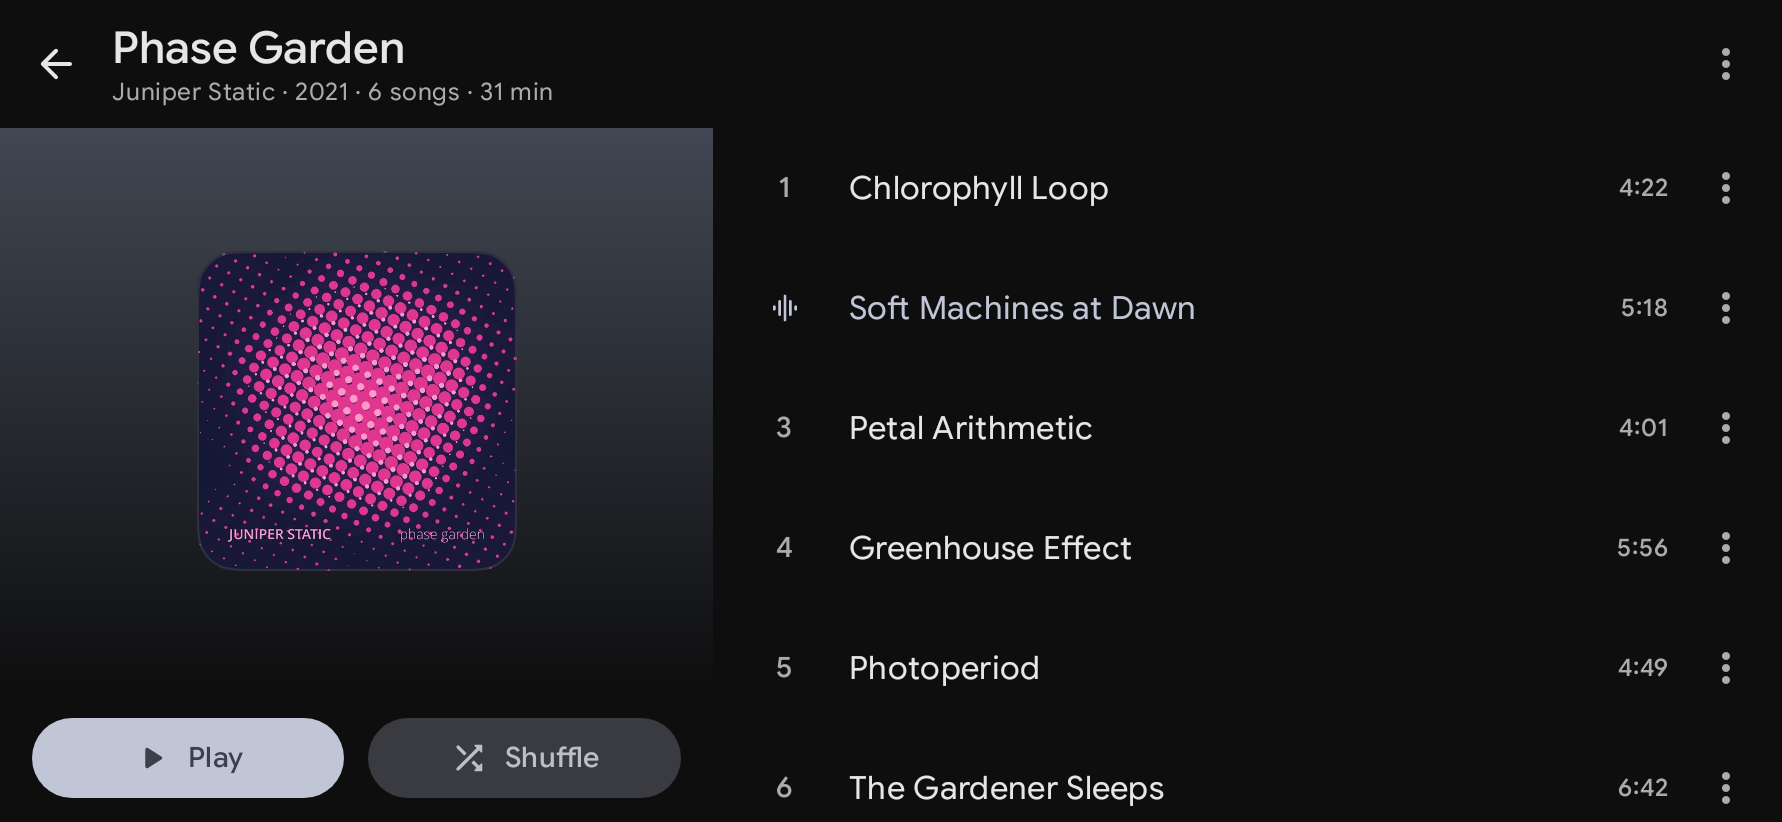
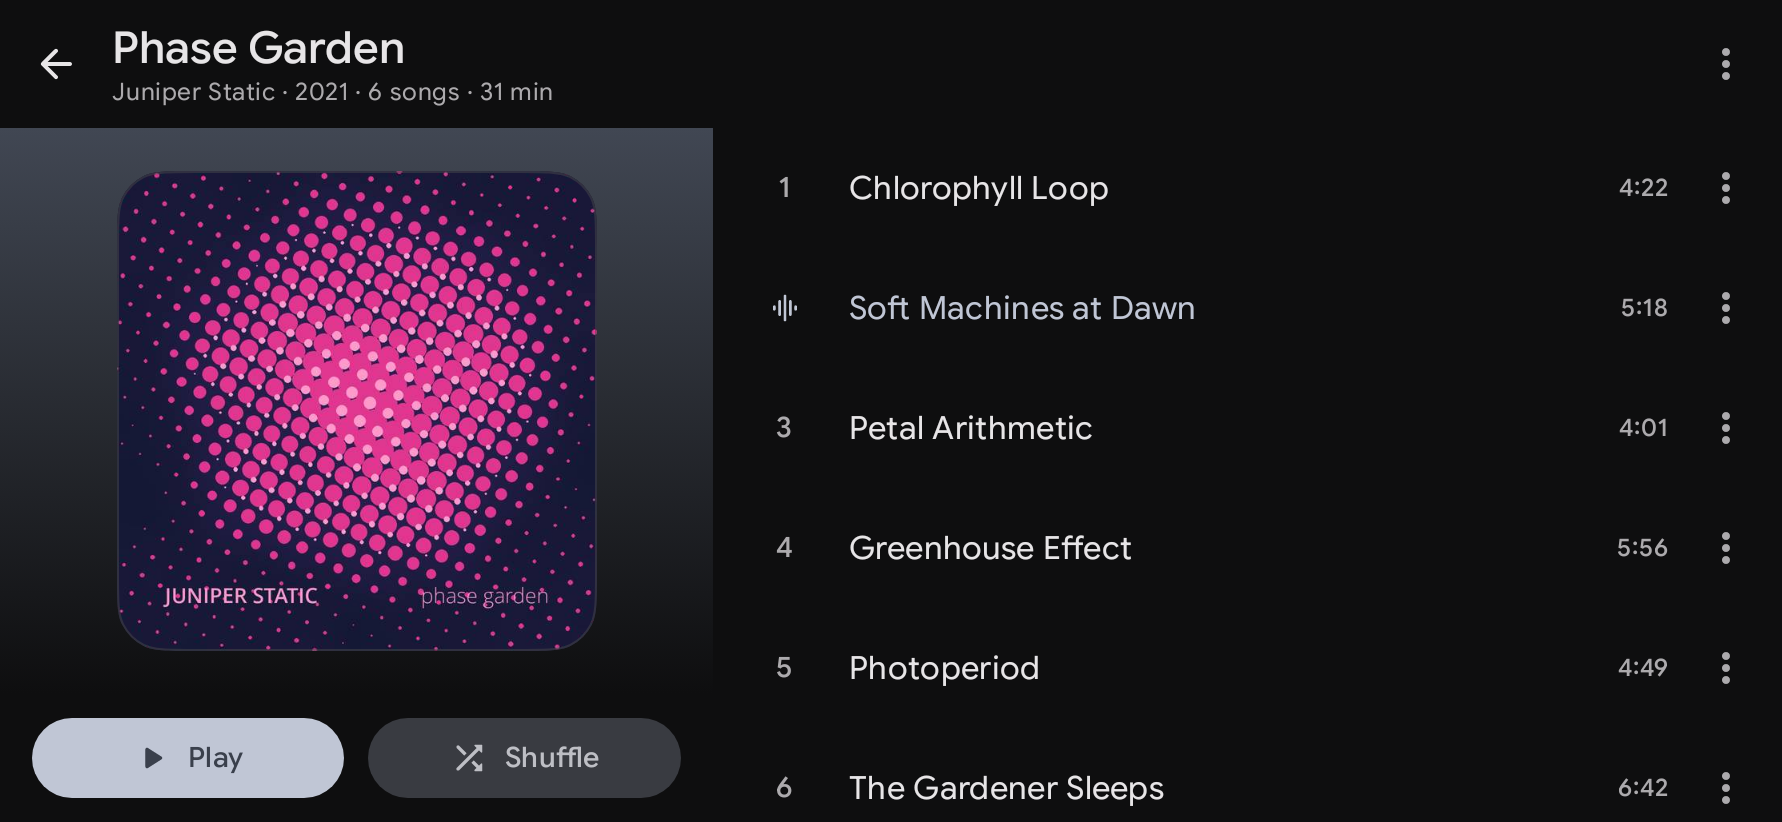
fix(app): album runtime uses the shared duration format (#1034)
Changelog: none

Changed region(s): [[0.0617, 0.2129, 0.3395, 0.7908]]

diff --git a/android/app/src/test/java/com/simplecityapps/shuttle/ui/screens/library/AlbumDetailScreenTest.kt b/android/app/src/test/java/com/simplecityapps/shuttle/ui/screens/library/AlbumDetailScreenTest.kt
@@ -32,7 +32,7 @@ class AlbumDetailScreenTest {
         val album = createAlbum(name = "Phase Garden", albumArtist = "Juniper Static", songCount = 12, duration = 2_700_000, year = 2021)
         robot.setAlbum(readyAlbumDetail(album = album))
 
-        robot.assertTextDisplayed("12 songs · 45 min", substring = true)
+        robot.assertTextDisplayed("12 songs · 45 min", substring = true)
     }
 
     @Test
@@ -40,7 +40,43 @@ class AlbumDetailScreenTest {
         val album = createAlbum(name = "Phase Garden", albumArtist = "Juniper Static", songCount = 1, duration = 7_500_000, year = 2021)
         robot.setAlbum(readyAlbumDetail(album = album))
 
-        robot.assertTextDisplayed("1 song · 2 h 5 min", substring = true)
+        robot.assertTextDisplayed("1 song · 2 hr, 5 min", substring = true)
+    }
+
+    @Test
+    fun `an album with no duration shows no runtime and no stray separator`() {
+        assertNoRuntime(duration = 0)
+    }
+
+    @Test
+    fun `an album under a minute shows no runtime and no stray separator`() {
+        assertNoRuntime(duration = 59_000)
+    }
+
+    private fun assertNoRuntime(duration: Int) {
+        val album = createAlbum(name = "Phase Garden", albumArtist = "Juniper Static", songCount = 2, duration = duration, year = 2021)
+        robot.setAlbum(readyAlbumDetail(album = album))
+
+        robot.assertTextDisplayed("Juniper Static · 2021 · 2 songs", substring = true)
+        robot.assertTextNotDisplayed("2 songs ·", substring = true)
+        robot.assertTextNotDisplayed("min", substring = true)
+    }
+
+    @Test
+    fun `59 minutes stays in minutes`() {
+        val album = createAlbum(name = "Phase Garden", albumArtist = "Juniper Static", songCount = 1, duration = 3_540_000, year = 2021)
+        robot.setAlbum(readyAlbumDetail(album = album))
+
+        robot.assertTextDisplayed("1 song · 59 min", substring = true)
+    }
+
+    @Test
+    fun `exactly an hour shows no minutes`() {
+        val album = createAlbum(name = "Phase Garden", albumArtist = "Juniper Static", songCount = 1, duration = 3_600_000, year = 2021)
+        robot.setAlbum(readyAlbumDetail(album = album))
+
+        robot.assertTextDisplayed("1 song · 1 hr", substring = true)
+        robot.assertTextNotDisplayed("0 min", substring = true)
     }
 
     @Test

diff --git a/android/app/src/main/java/com/simplecityapps/shuttle/ui/screens/library/AlbumDetailScreen.kt b/android/app/src/main/java/com/simplecityapps/shuttle/ui/screens/library/AlbumDetailScreen.kt
@@ -30,6 +30,7 @@ import com.simplecityapps.shuttle.ui.common.downloads.DownloadStatusHeader
 import com.simplecityapps.shuttle.ui.common.downloads.offlineState
 import com.simplecityapps.shuttle.ui.common.mediaactions.MediaActionsHost
 import com.simplecityapps.shuttle.ui.common.mediaactions.MediaActionsTarget
+import com.simplecityapps.shuttle.ui.common.utils.rememberMinutesFormat
 import com.simplecityapps.shuttle.ui.screens.library.albums.detail.AlbumDetailUiState
 import com.simplecityapps.shuttle.ui.screens.library.albums.detail.AlbumDetailViewModel
 import com.simplecityapps.shuttle.ui.shell.AlbumRoute
@@ -128,23 +129,16 @@ internal fun albumMoreTarget(album: Album, goToAlbumLabel: String, onOpen: () ->
 
 /** "Artist · year · N songs · duration". The separator's dot stays with the item before it, so a wrapped line never starts on one. */
 @Composable
-private fun albumSubtitle(album: Album): String = listOfNotNull(
-    album.friendlyArtistName,
-    album.year?.toString(),
-    pluralString(R.plurals.songsPlural, album.songCount),
-    albumRuntime(album.duration.toLong()),
-).filter { it.isNotBlank() }.joinToString(" · ")
-
-/** "45 min", or "1 h 5 min" from an hour up; empty for none. Whole minutes, rounded down. */
-@Composable
-internal fun albumRuntime(ms: Long): String {
-    val totalMinutes = (ms / 60_000).toInt()
-    val resources = LocalResources.current
-    return when {
-        totalMinutes <= 0 -> ""
-        totalMinutes < 60 -> resources.getString(R.string.runtime_minutes, totalMinutes)
-        else -> resources.getString(R.string.runtime_hours_minutes, totalMinutes / 60, totalMinutes % 60)
-    }
+private fun albumSubtitle(album: Album): String {
+    val formatMinutes = rememberMinutesFormat()
+    // Whole minutes, rounded down; an album under a minute shows no runtime.
+    val minutes = (album.duration.toLong() / 60_000).toInt()
+    return listOfNotNull(
+        album.friendlyArtistName,
+        album.year?.toString(),
+        pluralString(R.plurals.songsPlural, album.songCount),
+        if (minutes > 0) formatMinutes(minutes) else null,
+    ).filter { it.isNotBlank() }.joinToString(" · ")
 }
 
 @Composable

diff --git a/android/app/src/main/java/com/simplecityapps/shuttle/ui/shell/player/NowPlayingPanels.kt b/android/app/src/main/java/com/simplecityapps/shuttle/ui/shell/player/NowPlayingPanels.kt
@@ -1,8 +1,5 @@
 package com.simplecityapps.shuttle.ui.shell.player
 
-import android.icu.text.MeasureFormat
-import android.icu.util.Measure
-import android.icu.util.MeasureUnit
 import android.text.format.DateUtils
 import androidx.compose.animation.core.spring
 import androidx.compose.foundation.gestures.AnchoredDraggableDefaults
@@ -80,6 +77,7 @@ import com.simplecityapps.shuttle.designsystem.component.SectionHeader
 import com.simplecityapps.shuttle.designsystem.component.SettingsGroup
 import com.simplecityapps.shuttle.designsystem.component.SwitchSetting
 import com.simplecityapps.shuttle.designsystem.theme.S2Spacing
+import com.simplecityapps.shuttle.ui.common.utils.rememberMinutesFormat
 import com.simplecityapps.shuttle.ui.screens.settings.EqualizerRoute
 import com.simplecityapps.shuttle.ui.screens.settings.SettingsDestinationRoute
 import com.simplecityapps.shuttle.ui.screens.settings.model.SettingsDestination
@@ -435,25 +433,6 @@ private val replayGainLabels: Map<ReplayGainMode, String>
         ReplayGainMode.Album to stringResource(R.string.dsp_replay_gain_album),
         ReplayGainMode.Off to stringResource(R.string.dsp_replay_gain_off),
     )
-
-/** Formats a length in minutes as "15 min", "1 hr" or "1 hr, 30 min", in the user's locale. */
-@Composable
-internal fun rememberMinutesFormat(): (Int) -> String {
-    val locale = ConfigurationCompat.getLocales(LocalConfiguration.current)[0] ?: Locale.getDefault()
-    return remember(locale) {
-        val format = MeasureFormat.getInstance(locale, MeasureFormat.FormatWidth.SHORT)
-        val formatMinutes: (Int) -> String = { minutes ->
-            val hours = minutes / 60
-            val rest = minutes % 60
-            val measures = buildList {
-                if (hours > 0) add(Measure(hours, MeasureUnit.HOUR))
-                if (rest > 0 || hours == 0) add(Measure(rest, MeasureUnit.MINUTE))
-            }
-            format.formatMeasures(*measures.toTypedArray())
-        }
-        formatMinutes
-    }
-}
 
 /** Formats a speed as "1×", "1.25×" or "0.5×", in the user's locale. */
 @Composable

diff --git a/android/app/src/main/java/com/simplecityapps/shuttle/ui/common/utils/MinutesFormat.kt b/android/app/src/main/java/com/simplecityapps/shuttle/ui/common/utils/MinutesFormat.kt
@@ -1,0 +1,29 @@
+package com.simplecityapps.shuttle.ui.common.utils
+
+import android.icu.text.MeasureFormat
+import android.icu.util.Measure
+import android.icu.util.MeasureUnit
+import androidx.compose.runtime.Composable
+import androidx.compose.runtime.remember
+import androidx.compose.ui.platform.LocalConfiguration
+import androidx.core.os.ConfigurationCompat
+import java.util.Locale
+
+/** Formats a length in minutes as "15 min", "1 hr" or "1 hr, 30 min", in the user's locale. */
+@Composable
+internal fun rememberMinutesFormat(): (Int) -> String {
+    val locale = ConfigurationCompat.getLocales(LocalConfiguration.current)[0] ?: Locale.getDefault()
+    return remember(locale) {
+        val format = MeasureFormat.getInstance(locale, MeasureFormat.FormatWidth.SHORT)
+        val formatMinutes: (Int) -> String = { minutes ->
+            val hours = minutes / 60
+            val rest = minutes % 60
+            val measures = buildList {
+                if (hours > 0) add(Measure(hours, MeasureUnit.HOUR))
+                if (rest > 0 || hours == 0) add(Measure(rest, MeasureUnit.MINUTE))
+            }
+            format.formatMeasures(*measures.toTypedArray())
+        }
+        formatMinutes
+    }
+}

diff --git a/android/app/src/main/java/com/simplecityapps/shuttle/ui/screens/library/LibraryDetailComponents.kt b/android/app/src/main/java/com/simplecityapps/shuttle/ui/screens/library/LibraryDetailComponents.kt
@@ -110,7 +110,7 @@ fun LibraryDetailScaffold(
                         topInset = topInset,
                         artwork = {
                             val sharedModifier = Modifier.sharedArtwork(artworkKey)
-                            if (heroArtwork != null) heroArtwork(sharedModifier) else LibraryArtwork(model = artwork, placeholder = placeholder, modifier = sharedModifier, size = artworkSize)
+                            if (heroArtwork != null) heroArtwork(sharedModifier) else LibraryArtwork(model = artwork, placeholder = placeholder, modifier = sharedModifier, size = if (columnHeight == Dp.Unspecified) artworkSize else ArtworkSize.Hero)
                         },
                         actions = playShuffle,
                         extra = header,
